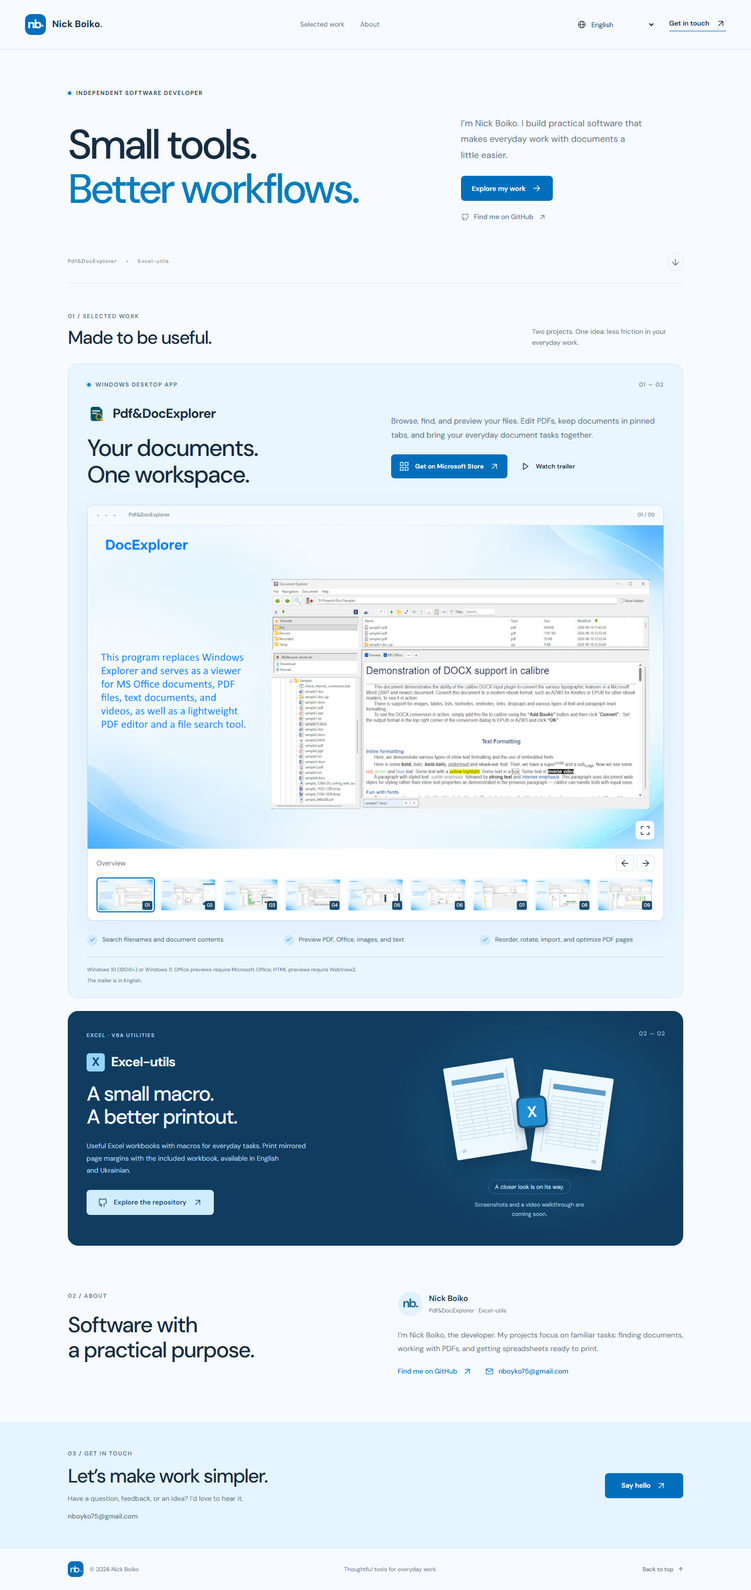
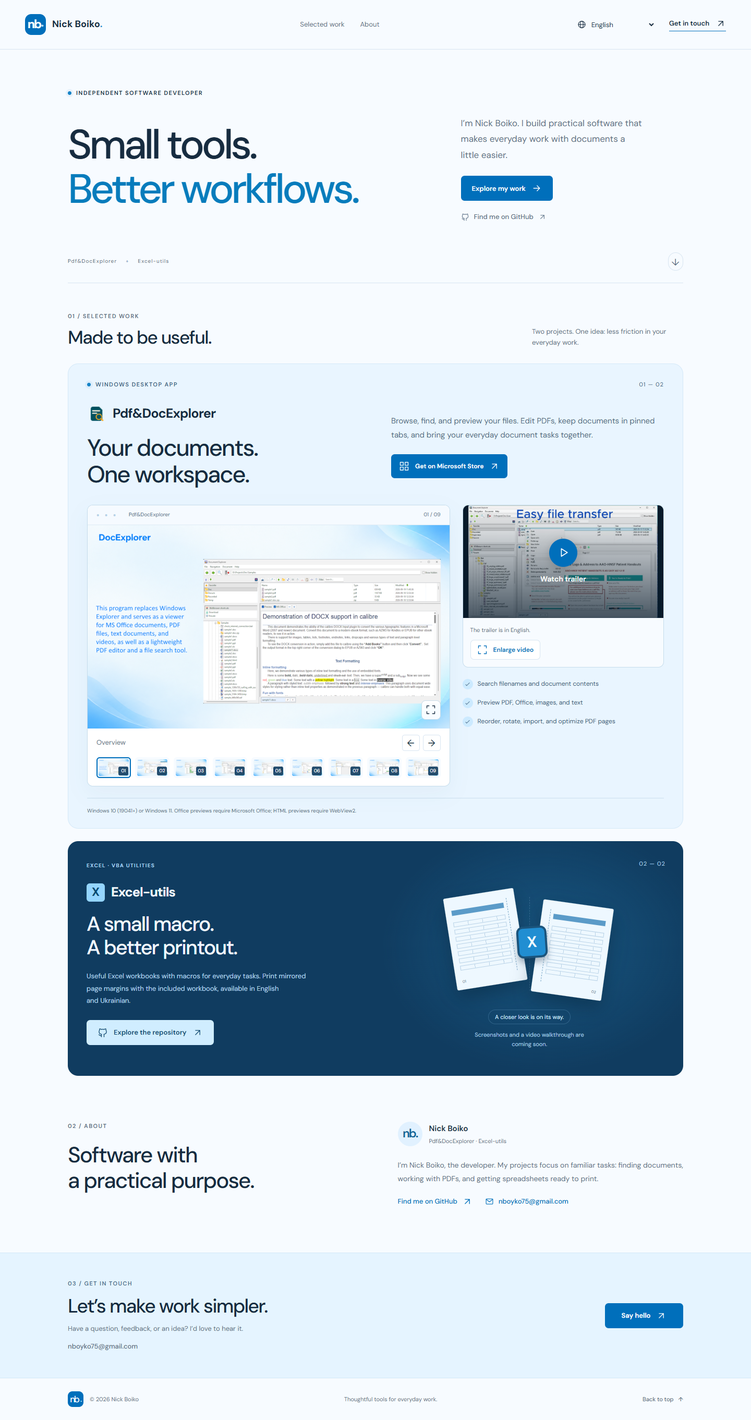
Added the trailer mini player beside the screenshot gallery, with an Enlarge video button that preserves playback position

diff --git a/lib/i18n.ts b/lib/i18n.ts
@@ -25,6 +25,7 @@ const en = {
   contactTitle: "Let’s make work simpler.", contactDescription: "Have a question, feedback, or an idea? I’d love to hear it.",
   email: "Say hello", footer: "Thoughtful tools for everyday work.", backTop: "Back to top", close: "Close",
   previous: "Previous screenshot", next: "Next screenshot", enlarge: "Enlarge screenshot", trailerUnavailable: "Your browser cannot play this video. Download the trailer.", skip: "Skip to content",
+  enlargeVideo: "Enlarge video",
 };
 export type Copy = typeof en;
 const keys = Object.keys(en) as (keyof Copy)[];
@@ -46,6 +47,7 @@ export const dictionaries: Record<Locale, Copy> = {
     "Незабаром — докладний огляд.", "Знімки екрана та відеодемонстрація вже на підході.", "Програми для\nпрактичних завдань.",
     "Я Микола Бойко, розробник. Мої проєкти допомагають із повсякденними завданнями: пошуком документів, роботою з PDF і підготовкою таблиць до друку.",
     "Зробімо роботу простішою.", "Маєте запитання, відгук чи ідею? Буду радий почути.", "Написати", "Продумані інструменти для щоденної роботи.", "Нагору", "Закрити", "Попередній знімок", "Наступний знімок", "Збільшити знімок", "Браузер не може відтворити відео. Завантажте його.", "Перейти до вмісту",
+    "Збільшити відео",
   ]),
   de: translated([
     "Projekte", "Über mich", "Kontakt", "Sprache", "UNABHÄNGIGER SOFTWAREENTWICKLER", "Kleine Helfer.", "Bessere Abläufe.",
@@ -59,6 +61,7 @@ export const dictionaries: Record<Locale, Copy> = {
     "Bald gibt es mehr zu sehen.", "Screenshots und eine Videovorführung folgen in Kürze.", "Software mit\npraktischem Nutzen.",
     "Ich bin Nick Boiko, Entwickler. Meine Projekte unterstützen vertraute Aufgaben: Dokumente finden, PDFs bearbeiten und Tabellen für den Druck vorbereiten.",
     "Machen wir die Arbeit einfacher.", "Fragen, Feedback oder eine Idee? Ich freue mich auf Ihre Nachricht.", "Hallo sagen", "Durchdachte Werkzeuge für den Arbeitsalltag.", "Nach oben", "Schließen", "Vorheriger Screenshot", "Nächster Screenshot", "Screenshot vergrößern", "Ihr Browser kann dieses Video nicht abspielen. Laden Sie den Trailer herunter.", "Zum Inhalt springen",
+    "Video vergrößern",
   ]),
   fr: translated([
     "Projets", "À propos", "Me contacter", "Langue", "DÉVELOPPEUR LOGICIEL INDÉPENDANT", "De petits outils.", "Un travail plus simple.",
@@ -72,6 +75,7 @@ export const dictionaries: Record<Locale, Copy> = {
     "Une présentation arrive bientôt.", "Des captures d’écran et une démonstration vidéo seront bientôt disponibles.", "Des logiciels\nà l’utilité concrète.",
     "Je suis Nick Boiko, le développeur. Mes projets facilitent des tâches familières : trouver des documents, travailler sur des PDF et préparer des tableaux à imprimer.",
     "Simplifions le travail ensemble.", "Une question, un avis ou une idée ? Je serai ravi de vous lire.", "Écrivez-moi", "Des outils réfléchis pour le quotidien.", "Retour en haut", "Fermer", "Capture précédente", "Capture suivante", "Agrandir la capture", "Votre navigateur ne peut pas lire cette vidéo. Téléchargez-la.", "Aller au contenu",
+    "Agrandir la vidéo",
   ]),
   es: translated([
     "Proyectos", "Sobre mí", "Contacto", "Idioma", "DESARROLLADOR DE SOFTWARE INDEPENDIENTE", "Pequeñas herramientas.", "Un trabajo más fácil.",
@@ -85,6 +89,7 @@ export const dictionaries: Record<Locale, Copy> = {
     "Pronto podrás verlo de cerca.", "Las capturas de pantalla y una demostración en vídeo estarán disponibles próximamente.", "Software con\nun propósito práctico.",
     "Soy Nick Boiko, desarrollador. Mis proyectos se centran en tareas habituales: encontrar documentos, trabajar con PDF y preparar hojas de cálculo para imprimir.",
     "Hagamos el trabajo más sencillo.", "¿Tienes una pregunta, un comentario o una idea? Me encantará leerte.", "Escríbeme", "Herramientas pensadas para el trabajo diario.", "Volver arriba", "Cerrar", "Captura anterior", "Captura siguiente", "Ampliar captura", "Tu navegador no puede reproducir este vídeo. Descárgalo.", "Ir al contenido",
+    "Ampliar vídeo",
   ]),
   it: translated([
     "Progetti", "Chi sono", "Contattami", "Lingua", "SVILUPPATORE SOFTWARE INDIPENDENTE", "Piccoli strumenti.", "Un lavoro più semplice.",
@@ -98,6 +103,7 @@ export const dictionaries: Record<Locale, Copy> = {
     "Presto potrai vederlo da vicino.", "Immagini e una dimostrazione video saranno disponibili a breve.", "Software con\nuno scopo concreto.",
     "Sono Nick Boiko, lo sviluppatore. I miei progetti semplificano attività comuni: trovare documenti, lavorare con i PDF e preparare fogli di calcolo per la stampa.",
     "Semplifichiamo il lavoro insieme.", "Hai una domanda, un suggerimento o un’idea? Scrivimi, ti leggerò volentieri.", "Scrivimi", "Strumenti pensati per il lavoro quotidiano.", "Torna in alto", "Chiudi", "Immagine precedente", "Immagine successiva", "Ingrandisci immagine", "Il browser non può riprodurre questo video. Scaricalo.", "Vai al contenuto",
+    "Ingrandisci video",
   ]),
   "pt-BR": translated([
     "Projetos", "Sobre mim", "Entre em contato", "Idioma", "DESENVOLVEDOR DE SOFTWARE INDEPENDENTE", "Pequenas ferramentas.", "Um trabalho mais fácil.",
@@ -111,6 +117,7 @@ export const dictionaries: Record<Locale, Copy> = {
     "Em breve, uma visão mais detalhada.", "Capturas de tela e uma demonstração em vídeo estarão disponíveis em breve.", "Software com\num propósito prático.",
     "Sou Nick Boiko, desenvolvedor. Meus projetos ajudam em tarefas comuns: encontrar documentos, trabalhar com PDFs e preparar planilhas para impressão.",
     "Vamos simplificar o trabalho.", "Tem uma pergunta, um comentário ou uma ideia? Vou adorar receber sua mensagem.", "Diga olá", "Ferramentas pensadas para o trabalho diário.", "Voltar ao topo", "Fechar", "Captura anterior", "Próxima captura", "Ampliar captura", "Seu navegador não pode reproduzir este vídeo. Baixe o arquivo.", "Ir para o conteúdo",
+    "Ampliar vídeo",
   ]),
   ja: translated([
     "制作したソフト", "自己紹介", "お問い合わせ", "言語", "個人ソフトウェア開発者", "小さなツールで。", "毎日の仕事を快適に。",
@@ -124,6 +131,7 @@ export const dictionaries: Record<Locale, Copy> = {
     "詳しい紹介を準備中です。", "スクリーンショットと操作紹介動画を近日公開予定です。", "実用性を大切にした\nソフトウェア。",
     "Pdf&DocExplorerとExcel-utilsの開発者、Nick Boikoです。文書の検索、PDFの編集、表計算シートの印刷準備など、身近な作業を支えるソフトを作っています。",
     "仕事をもっとシンプルに。", "ご質問、ご感想、アイデアがあれば、ぜひお聞かせください。", "メールを送る", "毎日の仕事に、使いやすいツールを。", "ページの先頭へ", "閉じる", "前の画像", "次の画像", "画像を拡大", "このブラウザでは動画を再生できません。動画をダウンロードしてください。", "本文へ移動",
+    "動画を拡大",
   ]),
   ko: translated([
     "프로젝트", "소개", "문의하기", "언어", "독립 소프트웨어 개발자", "작은 도구로.", "더 편리한 작업을.",
@@ -137,6 +145,7 @@ export const dictionaries: Record<Locale, Copy> = {
     "자세한 소개를 준비 중입니다.", "스크린샷과 사용 방법 영상이 곧 공개됩니다.", "실용적인 목적을 담은\n소프트웨어.",
     "저는 Pdf&DocExplorer와 Excel-utils를 개발한 Nick Boiko입니다. 문서 검색, PDF 작업, 스프레드시트 인쇄 준비처럼 익숙한 작업을 돕는 프로젝트를 만듭니다.",
     "함께 더 간편하게 일해요.", "질문, 의견 또는 아이디어가 있으신가요? 편하게 연락해 주세요.", "메일 보내기", "일상 업무를 위해 세심하게 만든 도구.", "맨 위로", "닫기", "이전 스크린샷", "다음 스크린샷", "스크린샷 확대", "브라우저에서 이 영상을 재생할 수 없습니다. 영상을 다운로드하세요.", "본문으로 이동",
+    "영상 확대",
   ]),
   "zh-CN": translated([
     "精选项目", "关于我", "联系我", "语言", "独立软件开发者", "小工具。", "让工作更顺手。",
@@ -150,6 +159,7 @@ export const dictionaries: Record<Locale, Copy> = {
     "详细展示即将上线。", "截图和操作演示视频即将发布。", "以实用为目的的\n软件。",
     "我是 Nick Boiko，Pdf&DocExplorer 和 Excel-utils 的开发者。我的项目专注于常见任务：查找文档、处理 PDF，以及为电子表格做好打印准备。",
     "一起让工作更简单。", "有问题、反馈或想法？欢迎与我分享。", "发送邮件", "为日常工作用心打造的工具。", "返回顶部", "关闭", "上一张截图", "下一张截图", "放大截图", "你的浏览器无法播放此视频。请下载视频。", "跳至正文",
+    "放大视频",
   ]),
   ru: translated([
     "Мои проекты", "Обо мне", "Связаться", "Язык", "НЕЗАВИСИМЫЙ РАЗРАБОТЧИК ПРОГРАММ", "Небольшие инструменты.", "Удобная работа.",
@@ -163,6 +173,7 @@ export const dictionaries: Record<Locale, Copy> = {
     "Подробный обзор скоро появится.", "Снимки экрана и видеодемонстрация уже готовятся.", "Программы для\nпрактических задач.",
     "Я Николай Бойко, разработчик. Мои проекты помогают решать привычные задачи: искать документы, работать с PDF и готовить таблицы к печати.",
     "Сделаем работу проще.", "Есть вопрос, отзыв или идея? Буду рад вашему сообщению.", "Написать", "Продуманные инструменты для ежедневной работы.", "Наверх", "Закрыть", "Предыдущий снимок", "Следующий снимок", "Увеличить снимок", "Браузер не может воспроизвести видео. Скачайте его.", "Перейти к содержимому",
+    "Увеличить видео",
   ]),
 };
 export function resolveLocale(value: string | null | undefined): Locale | null {

diff --git a/app/portfolio.tsx b/app/portfolio.tsx
@@ -31,6 +31,10 @@ export default function Portfolio({ excelMedia }: { excelMedia: { image: boolean
   const [activeImage, setActiveImage] = useState(0);
   const [modal, setModal] = useState<Modal>(null);
   const dialog = useRef<HTMLDialogElement>(null);
+  const miniVideo = useRef<HTMLVideoElement>(null);
+  const modalVideo = useRef<HTMLVideoElement>(null);
+  const trailerTime = useRef(0);
+  const [trailerStarted, setTrailerStarted] = useState(false);
   const trigger = useRef<HTMLElement | null>(null);
   const copy = dictionaries[locale];
   const screenshots = getScreenshots(locale);
@@ -70,9 +74,22 @@ export default function Portfolio({ excelMedia }: { excelMedia: { image: boolean
   }
   function openModal(value: Modal) {
     trigger.current = document.activeElement as HTMLElement;
+    if (miniVideo.current) {
+      if (miniVideo.current.readyState >= 1) trailerTime.current = miniVideo.current.currentTime;
+      miniVideo.current.pause();
+    }
     setModal(value);
   }
   function closeModal() {
+    if (modal === "dox-video" && modalVideo.current) {
+      trailerTime.current = modalVideo.current.currentTime;
+      modalVideo.current.pause();
+      if (miniVideo.current) {
+        if (miniVideo.current.readyState >= 1) miniVideo.current.currentTime = trailerTime.current;
+        miniVideo.current.volume = modalVideo.current.volume;
+        miniVideo.current.muted = modalVideo.current.muted;
+      }
+    }
     dialog.current?.close();
     setModal(null);
     trigger.current?.focus();
@@ -97,15 +114,28 @@ export default function Portfolio({ excelMedia }: { excelMedia: { image: boolean
         <div className="section-heading"><div><div className="eyebrow">01 / {copy.work}</div><h2 id="work-title">{copy.selected}</h2></div><p>{copy.selectedDesc}</p></div>
         <article className="dox-project" aria-labelledby="dox-title">
           <div className="project-topline"><span className="eyebrow"><span className="status-dot" />{copy.desktop}</span><span className="project-number">01 — 02</span></div>
-          <div className="dox-intro"><div><div className="app-name"><img src={assetUrl(media.doxIcon)} alt="" width="40" height="40" /><h3 id="dox-title">Pdf&DocExplorer</h3></div><h4 className="project-tagline">{copy.docTagline}</h4></div><div className="project-description"><p>{copy.docDescription}</p><div className="project-actions"><a href={STORE} className="button primary" target="_blank" rel="noreferrer"><Icon name="windows" />{copy.store}<Icon name="up" /></a><button className="button text-button" onClick={() => openModal("dox-video")}><Icon name="play" />{copy.watch}</button></div></div></div>
+          <div className="dox-intro"><div><div className="app-name"><img src={assetUrl(media.doxIcon)} alt="" width="40" height="40" /><h3 id="dox-title">Pdf&DocExplorer</h3></div><h4 className="project-tagline">{copy.docTagline}</h4></div><div className="project-description"><p>{copy.docDescription}</p><div className="project-actions"><a href={STORE} className="button primary" target="_blank" rel="noreferrer"><Icon name="windows" />{copy.store}<Icon name="up" /></a></div></div></div>
+          <div className="dox-media">
           <div className="gallery" aria-label={copy.gallery}>
             <div className="gallery-toolbar"><span><span className="window-dots" aria-hidden="true">● ● ●</span> Pdf&DocExplorer</span><span className="gallery-counter">{String(galleryIndex + 1).padStart(2, "0")} / {String(screenshots.length).padStart(2, "0")}</span></div>
             <button className="screenshot-button" aria-label={`${copy.enlarge}: ${currentScreenshot.caption}`} onClick={() => openModal("image")}><img src={assetUrl(currentScreenshot.src)} width={currentScreenshot.width} height={currentScreenshot.height} alt={`Pdf&DocExplorer — ${currentScreenshot.caption}`} fetchPriority="high" /><span className="expand-icon"><Icon name="expand" /></span></button>
             <div className="gallery-navigation"><span className="gallery-caption" aria-live="polite">{currentScreenshot.caption}</span><div className="gallery-arrows"><button aria-label={copy.previous} onClick={() => moveImage(-1)}>←</button><button aria-label={copy.next} onClick={() => moveImage(1)}>→</button></div></div>
             <div className="gallery-thumbnails">{screenshots.map((screenshot, index) => <button key={screenshot.src} aria-label={screenshot.caption} title={screenshot.caption} aria-pressed={galleryIndex === index} onClick={() => setActiveImage(index)}><img src={assetUrl(screenshot.src)} width={screenshot.width} height={screenshot.height} alt="" loading="lazy" /><span aria-hidden="true">{String(index + 1).padStart(2, "0")}</span></button>)}</div>
           </div>
+          <div className="dox-media-sidebar">
+            <section className="trailer-card" aria-label={`Pdf&DocExplorer — ${copy.watch}`}>
+              <div className="trailer-screen">
+                <video ref={miniVideo} controls={trailerStarted} playsInline preload="none" aria-label={`Pdf&DocExplorer — ${copy.watch}`} poster={assetUrl(media.doxPoster)} src={assetUrl(media.doxTrailer)} onPlay={() => setTrailerStarted(true)} onLoadedMetadata={event => { event.currentTarget.currentTime = trailerTime.current; }}>
+                  <a href={assetUrl(media.doxTrailer)}>{copy.trailerUnavailable}</a>
+                </video>
+                {!trailerStarted && <button className="trailer-play" onClick={() => { setTrailerStarted(true); void miniVideo.current?.play().catch(() => {}); }}><span className="trailer-play-icon"><Icon name="play" /></span><span>{copy.watch}</span></button>}
+              </div>
+              <div className="trailer-footer"><p>{copy.screenshotNote}</p><button className="button trailer-expand" onClick={() => openModal("dox-video")}><Icon name="expand" />{copy.enlargeVideo}</button></div>
+            </section>
           <ul className="feature-list">{[copy.feature1, copy.feature2, copy.feature3].map(feature => <li key={feature}><span className="check-circle"><Icon name="check" /></span>{feature}</li>)}</ul>
-          <div className="project-notes"><p>{copy.requirements}</p><p>{copy.screenshotNote}</p></div>
+          </div>
+          </div>
+          <div className="project-notes"><p>{copy.requirements}</p></div>
         </article>
 
         <article className="excel-project" aria-labelledby="excel-title"><div className="excel-content"><div className="eyebrow">{copy.excelCategory}</div><div className="app-name"><span className="excel-icon" aria-hidden="true">X</span><h3 id="excel-title">Excel-utils</h3></div><h4 className="project-tagline">{copy.excelTagline}</h4><p>{copy.excelDescription}</p><div className="excel-actions"><a href={REPO} target="_blank" rel="noreferrer" className="button light"><Icon name="github" />{copy.repo}<Icon name="up" /></a>{excelMedia.trailer && <button className="button text-button" onClick={() => openModal("excel-video")}><Icon name="play" />{copy.watch}</button>}</div></div>
@@ -121,7 +151,13 @@ export default function Portfolio({ excelMedia }: { excelMedia: { image: boolean
     </main>
     <footer className="container"><a className="brand footer-brand" href="#top"><span className="monogram">nb<span>.</span></span><span>© {new Date().getFullYear()} Nick Boiko</span></a><span>{copy.footer}</span><a href="#top" className="text-link">{copy.backTop}<span aria-hidden="true">↑</span></a></footer>
     <dialog ref={dialog} className="media-dialog" aria-label={modal === "image" ? currentScreenshot.caption : copy.watch} onCancel={event => { event.preventDefault(); closeModal(); }} onClick={event => { if (event.target === event.currentTarget) closeModal(); }} onKeyDown={event => { if (modal === "image" && event.key === "ArrowLeft") moveImage(-1); if (modal === "image" && event.key === "ArrowRight") moveImage(1); }}>
-      {modal && <div className="dialog-content"><div className="dialog-toolbar"><span>{modal === "image" ? currentScreenshot.caption : `${modal === "dox-video" ? "Pdf&DocExplorer" : "Excel-utils"} — ${copy.watch}`}</span><button onClick={closeModal} aria-label={copy.close} autoFocus><Icon name="close" /></button></div>{modal === "image" ? <><img src={assetUrl(currentScreenshot.src)} alt={`Pdf&DocExplorer — ${currentScreenshot.caption}`} /><div className="dialog-gallery-controls"><button onClick={() => moveImage(-1)} aria-label={copy.previous}>←</button><span>{galleryIndex + 1} / {screenshots.length}</span><button onClick={() => moveImage(1)} aria-label={copy.next}>→</button></div></> : <video controls autoPlay playsInline preload="none" poster={modal === "dox-video" ? assetUrl(media.doxPoster) : excelMedia.poster ? assetUrl(media.excelPoster) : undefined} src={modal === "dox-video" ? assetUrl(media.doxTrailer) : assetUrl(media.excelTrailer)}><a href={modal === "dox-video" ? assetUrl(media.doxTrailer) : assetUrl(media.excelTrailer)}>{copy.trailerUnavailable}</a></video>}</div>}
+      {modal && <div className="dialog-content"><div className="dialog-toolbar"><span>{modal === "image" ? currentScreenshot.caption : `${modal === "dox-video" ? "Pdf&DocExplorer" : "Excel-utils"} — ${copy.watch}`}</span><button onClick={closeModal} aria-label={copy.close} autoFocus><Icon name="close" /></button></div>{modal === "image" ? <><img src={assetUrl(currentScreenshot.src)} alt={`Pdf&DocExplorer — ${currentScreenshot.caption}`} /><div className="dialog-gallery-controls"><button onClick={() => moveImage(-1)} aria-label={copy.previous}>←</button><span>{galleryIndex + 1} / {screenshots.length}</span><button onClick={() => moveImage(1)} aria-label={copy.next}>→</button></div></> : <video ref={modalVideo} controls autoPlay playsInline preload="none" onLoadedMetadata={event => {
+        if (modal === "dox-video") {
+          event.currentTarget.currentTime = trailerTime.current;
+          event.currentTarget.volume = miniVideo.current?.volume ?? 1;
+          event.currentTarget.muted = miniVideo.current?.muted ?? false;
+        }
+      }} poster={modal === "dox-video" ? assetUrl(media.doxPoster) : excelMedia.poster ? assetUrl(media.excelPoster) : undefined} src={modal === "dox-video" ? assetUrl(media.doxTrailer) : assetUrl(media.excelTrailer)}><a href={modal === "dox-video" ? assetUrl(media.doxTrailer) : assetUrl(media.excelTrailer)}>{copy.trailerUnavailable}</a></video>}</div>}
     </dialog>
   </>;
 }

diff --git a/app/globals.css b/app/globals.css
@@ -15,3 +15,14 @@
 @media(prefers-reduced-motion:reduce){html{scroll-behavior:auto}*,*::before,*::after{transition:none!important;animation:none!important}}
 
 .gallery-caption{font-size:13px;color:var(--muted)}.gallery-thumbnails{display:grid;grid-template-columns:repeat(9,minmax(0,1fr));gap:8px;padding:0 17px 15px}.gallery-thumbnails button{position:relative;min-width:0;border:2px solid transparent;border-radius:6px;padding:2px;background:var(--paper);overflow:hidden}.gallery-thumbnails button[aria-pressed=true]{border-color:var(--azure);background:var(--ice)}.gallery-thumbnails button:hover{border-color:#8fc8ec}.gallery-thumbnails button img{width:100%;height:auto;aspect-ratio:1366/768;object-fit:contain;border-radius:3px}.gallery-thumbnails button span{position:absolute;bottom:3px;right:3px;min-width:19px;padding:0 3px;border-radius:3px;background:#103c60e8;color:white;font-size:9px;line-height:17px}.gallery-thumbnails button:focus-visible{outline-offset:1px}@media(max-width:760px){.gallery-thumbnails{grid-template-columns:repeat(5,minmax(0,1fr));gap:6px;padding:0 8px 10px}.gallery-caption{font-size:11px}.gallery-thumbnails button{min-height:38px}}
+
+.dox-media{display:grid;grid-template-columns:minmax(0,1.8fr) minmax(280px,1fr);gap:24px;align-items:start}
+.dox-media-sidebar{min-width:0}.dox-media-sidebar .feature-list{grid-template-columns:1fr;gap:16px;margin:22px 0}
+.trailer-card{overflow:hidden;border:1px solid #c5dceb;border-radius:11px;background:var(--paper)}
+.trailer-screen{position:relative;aspect-ratio:16/9;background:#071a2a}.trailer-screen video{display:block;width:100%;height:100%;object-fit:contain}
+.trailer-play{position:absolute;inset:0;width:100%;border:0;background:linear-gradient(transparent,#071a2abb);color:white;display:flex;flex-direction:column;align-items:center;justify-content:center;gap:12px;font-size:14px;font-weight:600;padding:16px}
+.trailer-play-icon{display:grid;place-items:center;width:54px;height:54px;border-radius:50%;background:var(--azure);box-shadow:0 4px 20px #0003}.trailer-play-icon .icon{width:25px;height:25px}.trailer-play:hover .trailer-play-icon{background:#005a99}.trailer-play:focus-visible{outline-offset:-5px}
+.trailer-footer{padding:14px;display:flex;flex-direction:column;align-items:flex-start;gap:10px}.trailer-footer p{font-size:11px;color:var(--muted)}.trailer-expand{background:white;border-color:var(--line);color:var(--azure);font-size:12px;padding:8px 12px;max-width:100%;text-align:left}.trailer-expand:hover{background:var(--ice)}
+.dox-media+.project-notes{margin-top:22px}
+@media(max-width:1000px){.dox-media{grid-template-columns:1fr}.dox-media-sidebar{display:grid;grid-template-columns:minmax(0,1fr) minmax(0,1fr);gap:24px}.dox-media-sidebar .feature-list{margin:0;align-content:center}}
+@media(max-width:760px){.dox-media-sidebar{grid-template-columns:1fr;gap:20px}.dox-media{gap:20px}}

diff --git a/README.md b/README.md
@@ -37,7 +37,7 @@ The eleven locales were verified against `D:/Projects/NBWebSite/docs/README.md` 
 - Description, features, logo, and public support email: https://apps.microsoft.com/detail/9ns0crbdgtv6
 - Microsoft Store asset URLs and content provenance: `content/sources.json`.
 - Excel content: https://github.com/nboyko75/Excel-utils — Excel macro workbooks for printing mirrored page margins, in English and Ukrainian.
-- Original trailer copied from `D:/Projects/NBWebSite/Trailer4_2.mp4` to `public/media/doxexplorer/trailer.mp4` (about 101 MB / 7 min 28 sec). It loads only when its dialog opens. The poster is extracted from the supplied video.
+- Original trailer copied from `D:/Projects/NBWebSite/Trailer4_2.mp4` to `public/media/doxexplorer/trailer.mp4` (about 101 MB / 7 min 28 sec). The compact player loads the video only on play; its enlarge button opens a larger dialog at the same playback position. Closing the dialog keeps the position and leaves playback paused. The poster is extracted from the supplied video.
 - DM Sans font files are locally hosted; license is in `public/fonts/OFL.txt`.
 
 ### Localized DoxExplorer screenshots
